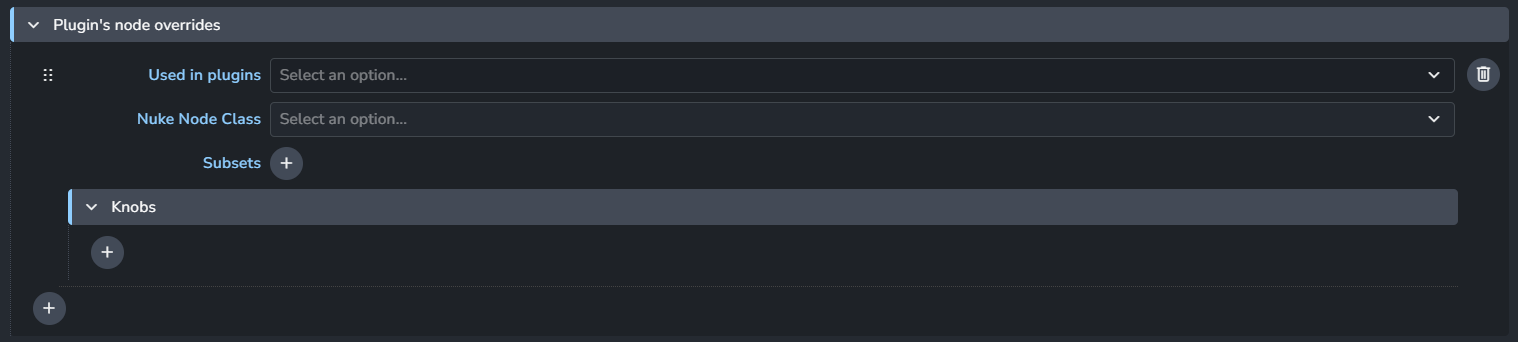
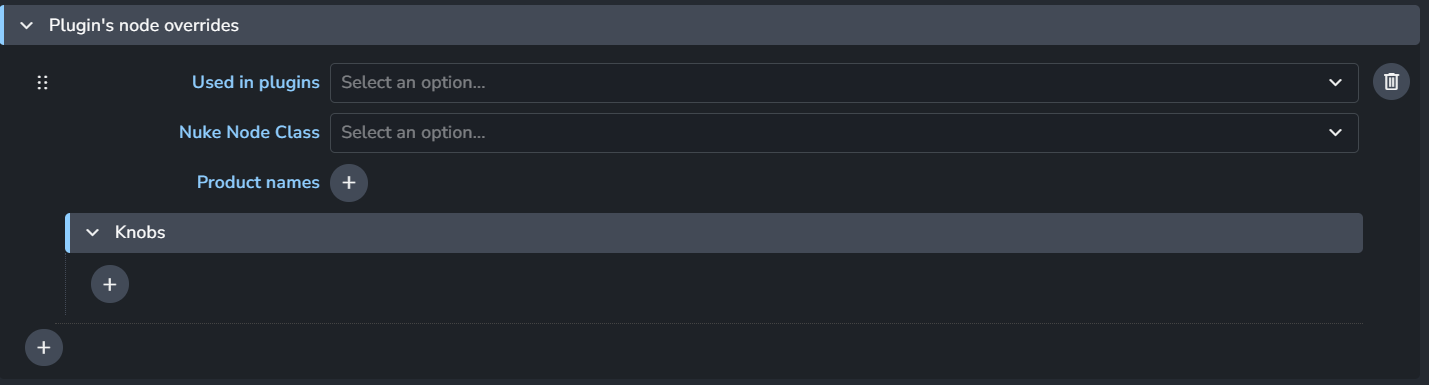
update imageio/nodes section and bump nuke version

diff --git a/website/docs/addon_nuke_admin_settings.md b/website/docs/addon_nuke_admin_settings.md
@@ -127,9 +127,9 @@ Nuke script project color settings map 1:1
 - **Used in plugins**
 - **Nuke Node Class**
 - **Knobs**
-  - **Name**
-  - **Type**
-  - **Controller**
+  - **Name**: Knob name
+  - **Type**: Select the knob type from a dropdown menu.
+  - **Value**: This option varies based on the knob type, allowing you to set the value easily.
   - **+**: Add more knobs
 - **+**: Add more node per plugins
 
@@ -139,12 +139,20 @@ Nuke script project color settings map 1:1
 
 - **Used in plugins**
 - **Nuke Node Class**
+- **Product names**
 - **Knobs**
-  - **Name**
-  - **Type**
-  - **Controller**
+  - **Name**: Knob name
+  - **Type**: Select the knob type from a dropdown menu.
+  - **Value**: This option varies based on the knob type, allowing you to set the value easily.
   - **+**: Add more knobs
 - **+**: Add more node per plugins
+
+:::info Nuke Node Class
+
+Nuke node class enum supports `Custom Class`, allowing you to specify a custom class name.
+
+![](assets/nuke/settings/node_plugins_nodes_overrides_custom_class.png)
+:::
 
 ### Assign colorspace to read nodes via rules
 > Setting Location: `ayon+settings://nuke/imageio/regex_inputs`
